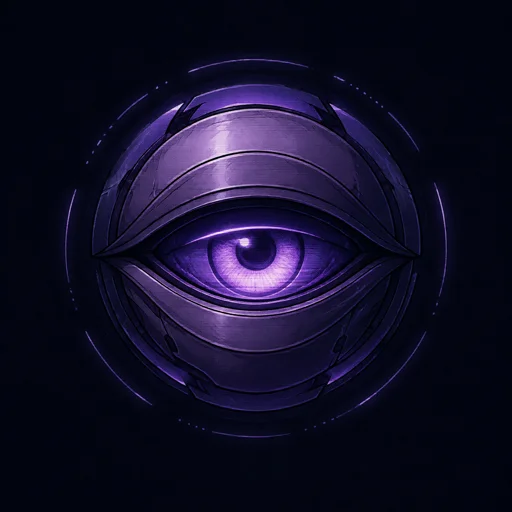
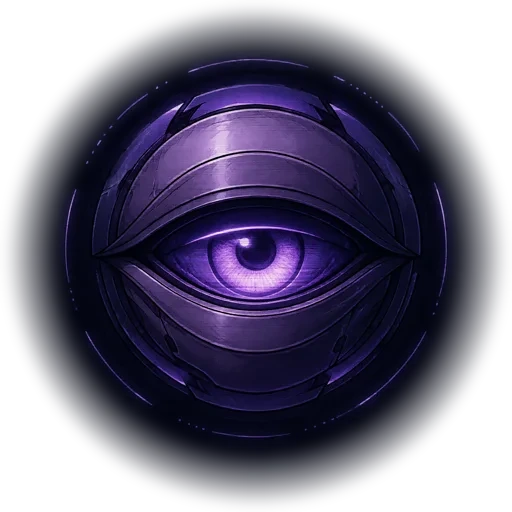
fix(cutscene): 하데스 구도 실물 재현 - 액자 폐지·대형 페더 초상·헤일로
- 사용자 지적: 하데스 초상은 정사각 액자가 아니라 화면 왼쪽에서 솟는 대형 아트
- StoryDialogue: 초상 420px 좌측 배치(액자 없음), 대사 패널이 초상 하단을 덮고
  이름표는 패널 윗변에 걸치는 별도 판, 화자색 라디얼 헤일로를 초상 뒤에 깔음
- assets/portraits 3종: 가장자리 페더 알파 베이크(은닉판은 라디얼 강페더)
- VerifyShots: VERIFY_ONLY 환경 변수 필터 + cutscene_rival_eye(공개판) 타깃 추가
- gpt_art_handoff.md: 사용처 설명을 실물 구도로 정정, 인물형 세로 2:3 스펙 추가
- known_issues: 레퍼런스는 실물 스크린샷 실측 규칙 등재
- 검증: 잠금 컷씬(은닉)·공개판(눈) 스크린샷 2종 확인

diff --git a/docs/design/gpt_art_handoff.md b/docs/design/gpt_art_handoff.md
@@ -26,11 +26,12 @@
 
 ### 그림이 쓰이는 자리
 
-이번에 부탁하는 그림은 컷씬 대화 초상화야. 게임이 멈추고 화면에 레터박스가
-깔린 뒤, 화면 하단에 대사 패널이 뜨고 그 왼쪽에 초상화가 236x236px 정사각
-프레임으로 표시돼 (하데스(Hades)의 대화 초상 같은 구도). 프레임 배경은 아주
-어두운 남색(#0a0d14)이고, 화자 고유색(VEIL은 시안, 라이벌은 보라)의 얇은
-테두리가 둘러져. 게임 전체 UI 바탕색은 #0d1117 계열의 어두운 남색이야.
+이번에 부탁하는 그림은 컷씬 대화 초상화야. 하데스(Hades)의 대화 장면과 같은
+구도야: 게임이 멈추고 레터박스가 깔리면, 화면 왼쪽에 대형 캐릭터 아트가 액자
+없이 하단에서 크게 솟아오르고(화면 세로의 약 60%), 그 아래를 대사 패널이
+덮으면서 이름표가 패널 윗변에 걸쳐. 그림은 배경에서 오려낸 것처럼 장면 위에
+직접 뜨고, 뒤에는 화자 고유색(VEIL은 시안, 라이벌은 보라)의 은은한 빛무리가
+깔려. 게임 화면과 UI 바탕은 #0d1117 계열의 아주 어두운 남색이야.
 
 이미 같은 계열로 만들어 쓰고 있는 초상 3장이 있어: VEIL은 각진 검은 장갑 셸
 가운데 시안색 렌즈 눈이 빛나는 드론 코어, 라이벌(은닉)은 어둠 속 글리치
@@ -48,13 +49,16 @@
 
 ### 기술 제약 (꼭 지켜줘)
 
-1. 정사각 1:1, 1024x1024.
+1. 기계·오브젝트형 피사체는 정사각 1:1 1024x1024. 인물형(흉상·상반신)은
+   세로 2:3(1024x1536)로, 피사체가 캔버스 하단 변까지 내려오게 (하단은 어차피
+   대사 패널이 덮으니 잘려도 돼).
 2. 배경은 투명으로 하지 말고 단색 #0d1117로 깔아줘. (투명을 요청하면 가짜
-   체커보드 무늬가 그려지는 문제가 있었어. 배경 분리는 개발 측이 후처리로 해.)
-3. 주 피사체는 캔버스 중앙 82% 안에 다 들어오게. 가장자리는 프레임에서 잘릴
-   수 있어.
-4. 이 그림은 실제로는 236px로 작게 표시돼. 멀리서도 읽히는 큰 실루엣과 강한
-   대비로, 잔 디테일보다 형태가 먼저 보이게 그려줘.
+   체커보드 무늬가 그려지는 문제가 있었어. 배경 분리·가장자리 페더는 개발
+   측이 후처리로 해.)
+3. 피사체 바깥으로 단색 배경 여백을 넉넉히 남겨줘. 후처리에서 가장자리를
+   부드럽게 녹이는데, 피사체가 캔버스 변에 붙어 있으면 같이 깎여.
+4. 실제 표시 크기는 화면 세로의 절반이 넘어서 꽤 커. 대신 어두운 장면 위에
+   직접 뜨니까, 어둠에 묻히지 않는 강한 명암 대비와 또렷한 실루엣이 필요해.
 5. 글자·로고·워터마크·UI 요소(체력바, 말풍선 등) 넣지 마.
 
 ## (공통 핸드오프 끝 · 아래에서 브리프 하나를 이어붙인다)
@@ -87,7 +91,8 @@
 
 ### 브리프 D · 요원(플레이어) 초상 (신규 후보)
 
-그려줄 것: 주인공 요원의 초상. 어깨 위 흉상 구도. 슬림한 전술 슈트에 헬멧
+그려줄 것: 주인공 요원의 초상. 세로 2:3(1024x1536), 상반신이 캔버스 하단
+변까지 내려오는 흉상 구도(하데스 대화 초상처럼). 슬림한 전술 슈트에 헬멧
 또는 후드, 얼굴은 바이저에 가려 눈빛만 희미하게. 개인 서사를 싣지 않는 무명의
 프로페셔널이라 표정이 드러나면 안 돼. 포인트 색은 옅은 시안(장비 램프·바이저
 반사). 배경 어둠 속에 시설의 희미한 광원 한 줄기.

diff --git a/docs/design/known_issues.md b/docs/design/known_issues.md
@@ -905,3 +905,11 @@
   규칙: 런타임 스폰 노드는 좌표 대입 직후 `reset_physics_interpolation()` 호출(자식까지 전파,
   Node 메서드라 어디든 안전). 2026-08-23 전수 스윕으로 24곳 일괄 적용(Player 잔상·BulletTrap·
   FalseVeil·BossSentinel·Stage 오브·레버·Tutorial 더미). IgShotter.gd의 기존 호출이 선례였다.
+
+- **"OO 게임처럼"은 기억이 아니라 실물 스크린샷으로 구현한다.**
+  증상: "하데스 구도"라 부르며 236px 정사각 액자 초상을 구현 → 사용자가 실제 하데스
+  스크린샷을 들고 와 지적(실물은 액자 없는 대형 아트가 화면 왼쪽에서 솟아 대사 상자에
+  하단이 덮이는 구도).
+  원인: 레퍼런스를 실물 확인 없이 기억 속 인상으로 좌표화.
+  규칙: 특정 게임을 레퍼런스로 명명한 연출은 그 장면의 스크린샷을 옆에 놓고 비율·배치를
+  실측해 구현한다. 명명 연출 표준 기법 원칙(메모리 named-effect-standard)의 구도판.
